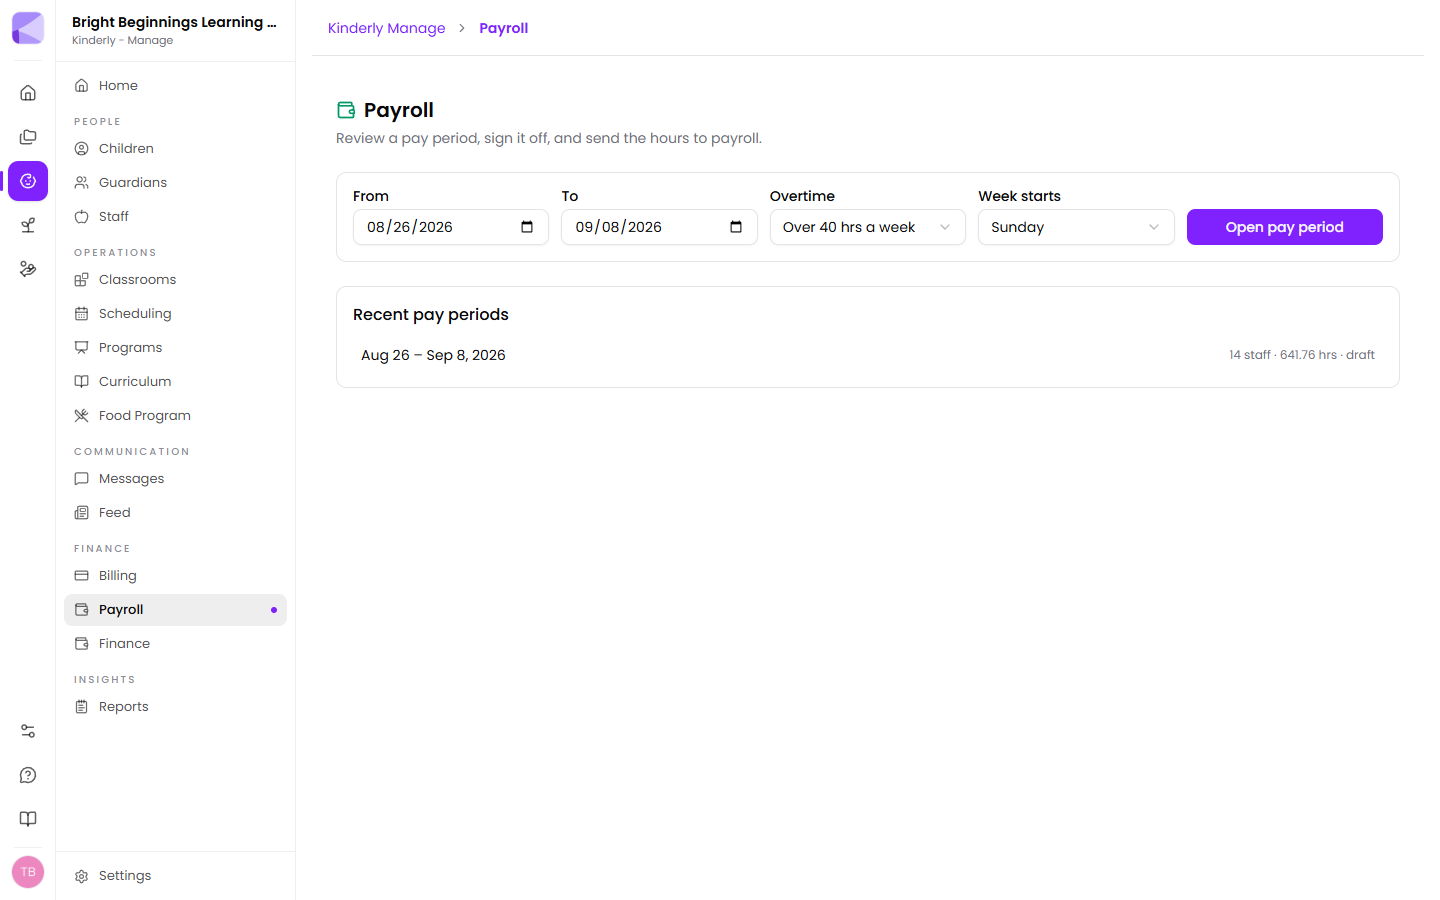
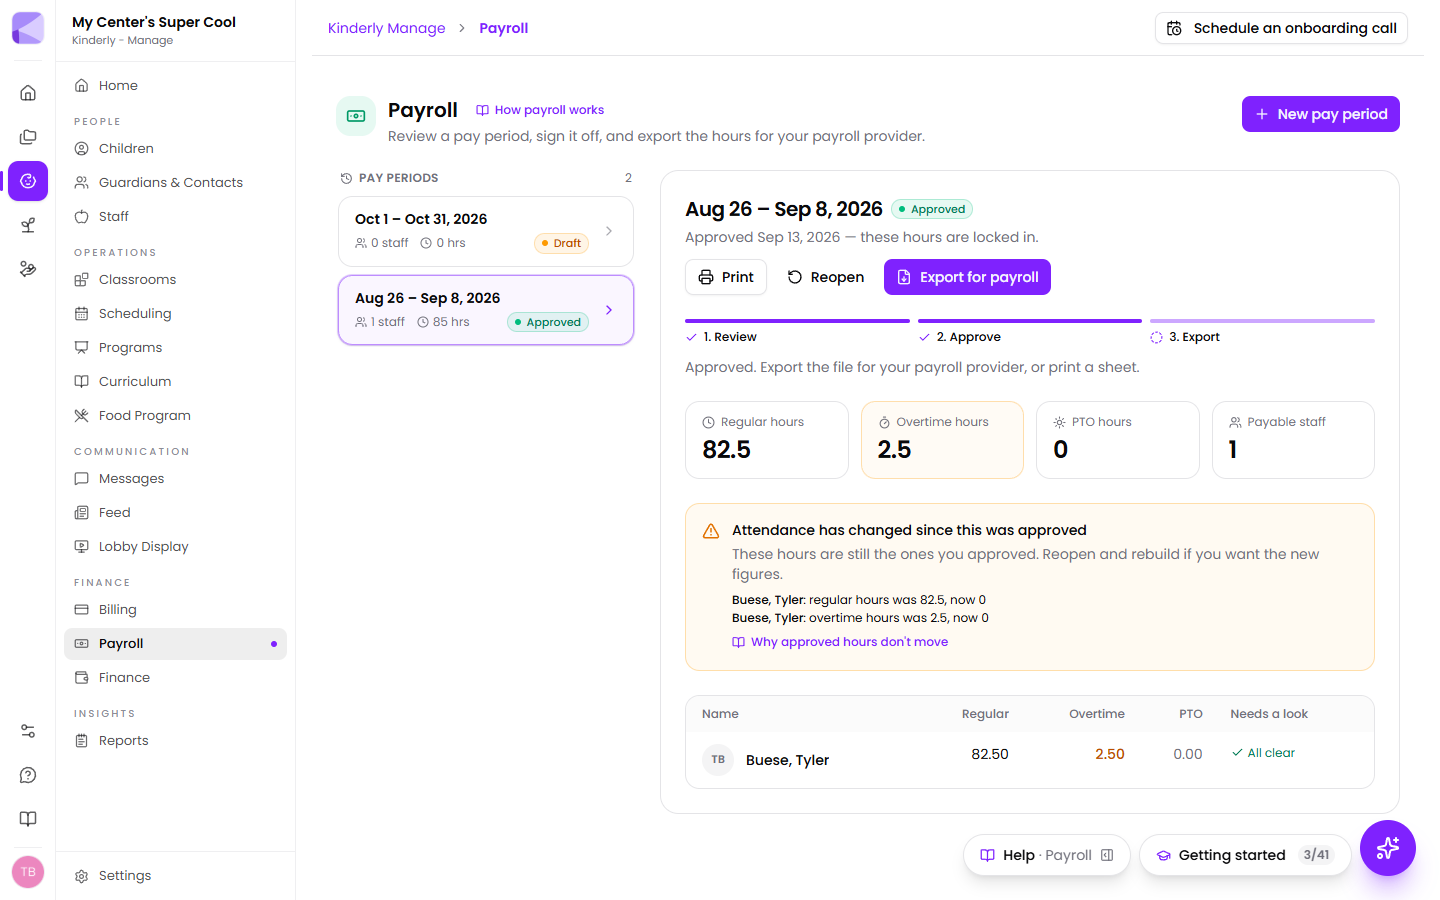
Refactor code structure for improved readability and maintainability

diff --git a/src/content/docs/manage/payroll.md b/src/content/docs/manage/payroll.md
@@ -6,27 +6,29 @@ sidebar:
 ---
 
 **Manage → Payroll** turns the sign-ins and sign-outs your team already records
-into a pay period you can check, approve, and hand to whoever runs payroll.
+into a pay period you can check, approve, and export for whoever runs payroll.
 
-![The Payroll page, with the period controls and recent pay periods](../../../assets/screenshots/manage-payroll-overview.png)
+![The Payroll page: pay periods down the left, an approved period on the right with the Review → Approve → Export track, totals, and the "Attendance has changed" banner](../../../assets/screenshots/manage-payroll-overview.png)
+
+The page has two columns. Your **pay periods** are listed down the left, newest
+first. Each card shows the dates, how many staff it covers, the total hours, and a
+status: **Draft**, **Approved** or **Sent**. The period you picked opens on the right,
+and the most recent one opens on its own when you arrive. On a narrow screen, or
+with the help drawer open, the columns stack and the period appears below the list.
 
 ## Opening a pay period
 
-Click **New pay period**, pick the dates (or a shortcut like **Last 2 weeks**), the
-overtime rule, and which day your workweek starts on, then click **Open pay period**.
-Kinderly works out everyone's hours from attendance, and remembers the overtime rule
-and week start for next time.
+![The Open a pay period dialog, with date shortcuts, overtime rule and week start](../../../assets/screenshots/manage-payroll-new-period.png)
 
-Your pay periods are listed down the left, newest first, each tagged with its
-status — **Draft**, **Approved** or **Sent**. Click one to open it; the
-most recent opens on its own when you arrive. Above each period's figures, a
-**Review → Approve → Export** track says what's left to do.
+1. Click **New pay period** at the top right.
+2. Pick a shortcut (**Last 2 weeks**, **Last week**, **This month** or **Last month**)
+   or set the **From** and **To** dates yourself.
+3. Choose the **Overtime** rule (**Over 40 hrs a week**, or **Also over 8 hrs a day**)
+   and the day the **Week starts** on.
+4. Click **Open pay period**.
 
-![A draft pay period, with regular, overtime and PTO hours per person](../../../assets/screenshots/manage-payroll-review.png)
-
-The summary line under the dates is the whole period at a glance — total regular
-hours, total overtime, PTO, and how many people are payable. Each row below is
-one person's hours, with anything questionable called out in **Needs a look**.
+Kinderly works out everyone's hours from attendance and opens the new period.
+It remembers the overtime rule and week start for next time.
 
 :::note[Overtime is counted by week, not by pay period]
 Two weeks of 30 hours each is 60 hours and no overtime. Counting across the
@@ -38,10 +40,30 @@ Colorado also owe it past 8 hours in a day: four ten-hour days is exactly 40
 hours and still owes 8 hours of overtime there.
 :::
 
+## Reading a pay period
+
+At the top of the period are its dates and status, with a line saying where it
+stands: a draft's figures still update as attendance changes, while an approved
+period's hours are locked in.
+
+Under that, a **Review → Approve → Export** track shows which step you're on, with
+a sentence saying what to do next, such as "2 people need a look before you can
+approve" or "Everything checks out. Approve to lock these hours in."
+
+Four tiles give the whole period at a glance: **Regular hours**, **Overtime hours**
+(highlighted when there is any), **PTO hours** and **Payable staff**.
+
+The table lists each person's **Regular**, **Overtime** and **PTO** hours, with a
+**Needs a look** column on the right. People with clean records show **All clear**.
+Salaried staff are marked **Salaried — not sent to payroll**: they're listed, but
+their pay isn't based on hours, so they're left out of every export.
+
 ## Needs a look
 
-Anyone whose records don't add up appears with a note — a missing sign-out, a
-sign-out with no matching sign-in, two sign-ins in a row.
+Anyone whose records don't add up has the date and the problem listed in the
+**Needs a look** column: a missing sign-out, a sign-out with no matching sign-in,
+or two sign-ins in a row. Their row is tinted, and a red banner above the table says
+how many people need a look before the period can be approved.
 
 **Kinderly counts nothing for these rather than guessing.** A teacher who forgot
 to clock out worked an unknown number of hours, and eight is as much a guess as
@@ -52,23 +74,28 @@ You have two choices:
 
 1. **Fix the record** in [Attendance](/manage/children/#attendance), then reopen
    the pay period and rebuild it. This is usually right.
-2. **Tick "I've checked this"** to approve anyway, with a note saying why. Use
-   this when you know what happened — someone covered the close and forgot to
-   clock out — and the note is what you'll be glad of in six months.
+2. **Click "I've checked this"** on their row to approve them anyway. A dialog
+   lists the problems and asks **What happened?** The note is optional, but use
+   it. When you know what happened (someone covered the close and forgot to clock
+   out), the note is what you'll be glad of in six months. The row then shows
+   **Approved anyway**, with your note beside it.
 
-You can't approve a pay period while anything is still unchecked.
+**Approve** stays greyed out while anyone still needs a look.
 
 ## Approving
 
-**Approve** signs the period off and freezes the figures.
+Once nothing needs a look, click **Approve**. It signs the period off and freezes
+the figures. The status changes to **Approved**, with the date, and the track moves
+on to **Export**.
 
 :::caution[Approving locks the numbers in — on purpose]
 After you approve, editing attendance does **not** change the approved hours.
-Instead, Kinderly shows you a banner saying what's changed and by how much.
+Instead, an **"Attendance has changed since this was approved"** banner lists each
+person whose hours moved, with the approved figure and the new one.
 
 That's deliberate. If the numbers quietly moved after you signed them, what
 eventually reached payroll wouldn't be what you approved, and nobody could tell.
-If you want the new figures, **Reopen**, rebuild, and approve again.
+If you want the new figures, click **Reopen**, rebuild, and approve again.
 :::
 
 Reopening clears the approval — what you signed off was a set of numbers, and
@@ -77,11 +104,13 @@ once those can move again the signature doesn't mean anything.
 ## Getting the hours to payroll
 
 Once a period is approved, **Export for payroll** downloads the hours as a file for
-Gusto, QuickBooks Online Payroll, ADP RUN or Paychex Flex, or as an entry sheet for
-Square Payroll. The dialog shows where to upload it in your provider. See
-[Payroll exports](/manage/payroll-exports/) for each provider's steps.
+Gusto, QuickBooks Online Payroll, ADP RUN or Paychex Flex, as an entry sheet for
+Square Payroll, or as a plain CSV for any other provider. The dialog shows where to
+upload it in your provider. See [Payroll exports](/manage/payroll-exports/) for each
+provider's steps.
 
-**Print** gives you a sheet of everyone's hours, and the **Payroll Hours** report in
+**Print** gives you a sheet of everyone's hours. It works at any stage, including
+on a draft you're still reviewing. The **Payroll Hours** report in
 [Reports](/manage/reports/) gives you the same figures to key in by hand.
 
 The approval is still worth doing first: it freezes the numbers and records who

diff --git a/src/content/docs/manage/payroll-exports.md b/src/content/docs/manage/payroll-exports.md
@@ -20,22 +20,28 @@ them. Kinderly makes the file. You upload it in your payroll provider.
 
 ## Exporting
 
-1. Open the pay period in **Manage → Payroll** and approve it.
-2. Click **Export for payroll** and pick your provider.
+![The Export for payroll dialog with Gusto picked, showing the upload steps above Download file](../../../assets/screenshots/manage-payroll-export.png)
+
+1. Open the pay period in **Manage → Payroll** and approve it. The track above
+   the figures moves on to **Export**.
+2. Click **Export for payroll** at the top of the period and pick your
+   **Payroll provider**. Kinderly remembers your choice for next time.
 3. For ADP or Paychex, enter your company or client code and each person's id the
    first time. Kinderly remembers them.
-4. Click **Download file**. The dialog shows the steps for your provider under the
-   button, and the same steps are below.
+4. Click **Download file** (**Download entry sheet** for Square). Above the button,
+   the dialog shows your provider's steps, with links to the provider's help and
+   to this page. The same steps are below.
 
 :::note[Only approved periods export]
-Export appears once a period is approved. The file holds the hours as you approved
-them, even if attendance has changed since. If the "Attendance has changed" banner
-is showing, reopen the period, rebuild it and approve it again before exporting.
+Export appears once a period is approved, and stays available afterwards. The file
+holds the hours as you approved them, even if attendance has changed since. If the
+"Attendance has changed" banner is showing, reopen the period, rebuild it and
+approve it again before exporting.
 :::
 
-**Salaried staff are left out of every file.** Their pay isn't based on hours. Only
-regular, overtime and PTO hours are exported. Pay rates, bonuses, tips and
-deductions stay with your payroll provider.
+**Salaried staff are left out of every file.** Their pay isn't based on hours, and
+the dialog says how many were left out. Only regular, overtime and PTO hours are
+exported. Pay rates, bonuses, tips and deductions stay with your payroll provider.
 
 ## Gusto
 

diff --git a/src/content/docs/getting-started/welcome.md b/src/content/docs/getting-started/welcome.md
@@ -52,6 +52,17 @@ Before a real family gets anything, send a share to your own email. You'll see t
 
 Ellie is Kinderly's built-in assistant. It shows up throughout the app — drafting a form from a description, searching your shares in plain English, and answering questions about your data. Ellie is included on every plan.
 
+## Help while you work
+
+The **Help** button at the bottom of the screen opens the guide for the page
+you're on, in a panel beside it, so you can read and follow along without losing
+your place. Links inside a guide, such as **How payroll works** next to a page's
+title, open in the same panel.
+
+The panel follows you: move to another page and it switches to that page's
+guide. Use **Search the help docs** at the top of the panel to look up anything
+else. On a smaller screen the panel covers the page instead of sitting beside it.
+
 ## Next
 
 - [What you get](/getting-started/what-you-get/) — plans and limits.

diff --git a/src/content/docs/manage/overview.md b/src/content/docs/manage/overview.md
@@ -60,7 +60,7 @@ Adding children first means going back over every record to assign rooms and pro
 
 ## Onboarding help
 
-**Schedule onboarding**, top-right on every Manage screen, books a session with the Kinderly team. **Settings → Launch Setup Wizard** walks you back through the basics on your own.
+**Schedule an onboarding call**, top-right on every Manage screen, books a session with the Kinderly team. **Settings → Center Configuration → Launch Setup Wizard** walks you back through the basics on your own. See [Setup wizard](/manage/settings/#setup-wizard).
 
 ## Next
 
